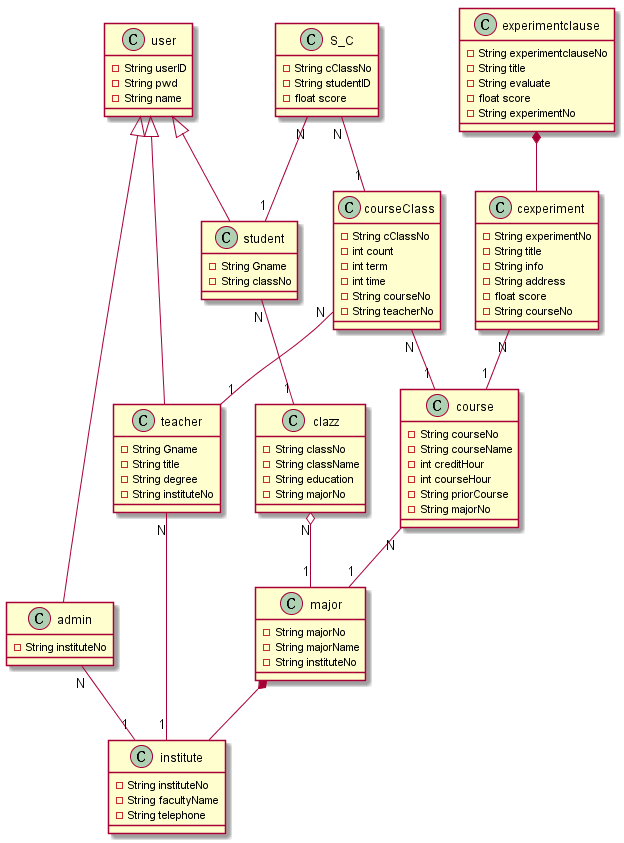
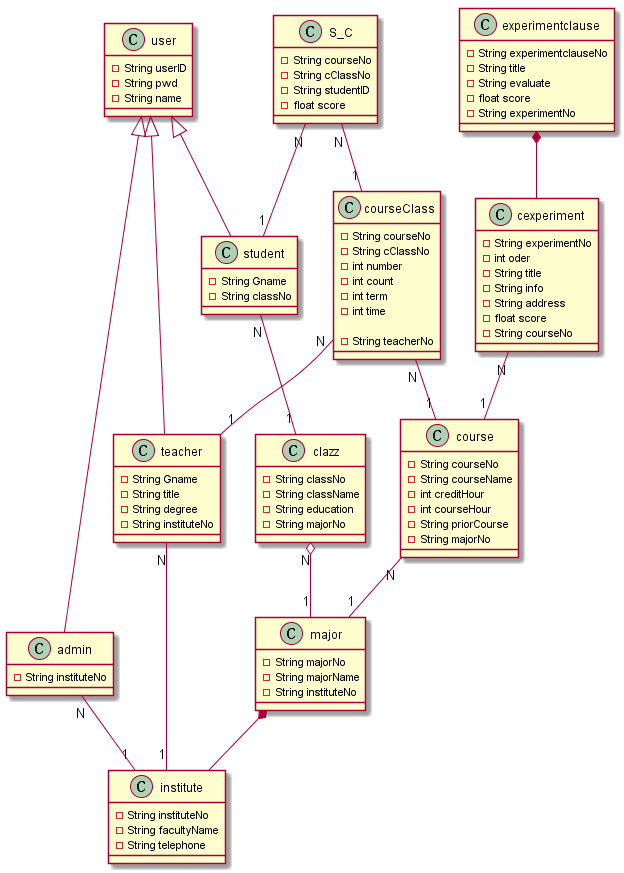
.

diff --git a/test6/数据库设计.md b/test6/数据库设计.md
@@ -1,1 +1,110 @@
 # 数据库设计
+
+- student
+
+|字段|类型|可以为空|约束|说明|
+|:-------:|:------:|:----:|:---:|:-----|
+|userID|varchar(13)|N|PK||
+|pwd|varchar(20)|N|||
+|name|varchar(15)|N|||
+|Gname|varchar(15)|Y|||
+|objectNo|varchar(11)|N|FK||
+
+- teacher
+
+|字段|类型|可以为空|约束|说明|
+|:-------:|:------:|:----:|:---:|:-----|
+|userID|varchar(13)|N|PK||
+|pwd|varchar(20)|N|||
+|name|varchar(15)|N|||
+|Gname|varchar(15)|Y|||
+|title|varchar(13)|N|||
+|degree|varchar(13)|N|||
+|instituteNo|varchar(2)|N|FK||
+
+- admin
+
+|字段|类型|可以为空|约束|说明|
+|:-------:|:------:|:----:|:---:|:-----|
+|userID|varchar(13)|N|PK||
+|pwd|varchar(20)|N|||
+|name|varchar(15)|N|||
+|instituteNo|varchar(2)|N|FK||
+
+- clazz
+
+|字段|类型|可以为空|约束|说明|
+|:-------:|:------:|:----:|:---:|:-----|
+|classNo|varchar(11)|N|PK||
+|className|varchar(30|N|||
+|education|varchar(13)|N|||
+|majorNo|varchar(3)|N|FK||
+
+- major
+
+|字段|类型|可以为空|约束|说明|
+|:-------:|:------:|:----:|:---:|:-----|
+|majorNo|varchar(3)|N|PK||
+|majorName|varchar(20)|N|||
+|instituteNo|varchar(2)|N|FK||
+
+- institute
+
+|字段|类型|可以为空|约束|说明|
+|:-------:|:------:|:----:|:---:|:-----|
+|instituteNo|varchar(2)|N|PK||
+|instituteName|varchar(20)|N|||
+|telephone|varchar(13)|N|||
+
+- cexperiment
+
+|字段|类型|可以为空|约束|说明|
+|:-------:|:------:|:----:|:---:|:-----|
+|experimentNo|varchar(8)|N|PK||
+|oder|int|N|||
+|title|varchar(20)|N|||
+|info|varchar(100)|N|||
+|address|varchar(50)|Y|||
+|score|float|Y|||
+|courseNo|varchar(6)|N|FK||
+
+- experimentclause
+
+|字段|类型|可以为空|约束|说明|
+|:-------:|:------:|:----:|:---:|:-----|
+|experimentclauseNo|varchar(10)|N|PK||
+|title|varchar(20)|N|||
+|evaluate|varchar(100)|N|||
+|score|float|Y|||
+|experimentNo|varchar(8)|N|FK||
+
+- course
+
+|字段|类型|可以为空|约束|说明|
+|:-------:|:------:|:----:|:---:|:-----|
+|courseNo|varchar(6)|N|PK||
+|courseName|varchar(30)|N|||
+|creditHour|int|N|||
+|courseHour|int|N|||
+|priorCourse|varchar(6)|N|||
+|majorNo|varchar(3)|N|FK||
+
+- courseClass
+
+|字段|类型|可以为空|约束|说明|
+|:-------:|:------:|:----:|:---:|:-----|
+|courseNo|varchar(6)|N|PK||
+|cClassNo|varchar(9)|N|PK||
+|count|int|N|||
+|term|int|N|||
+|time|int|N|||
+|teacherNo|varchar(6)|N|FK||
+
+- S_C
+
+|字段|类型|可以为空|约束|说明|
+|:-------:|:------:|:----:|:---:|:-----|
+|courseNo|varchar(6)|N|PK||
+|cClassNo|varchar(9)|N|PK||
+|studentID|varchar(13)|N|PK||
+|score|float|Y|N||
